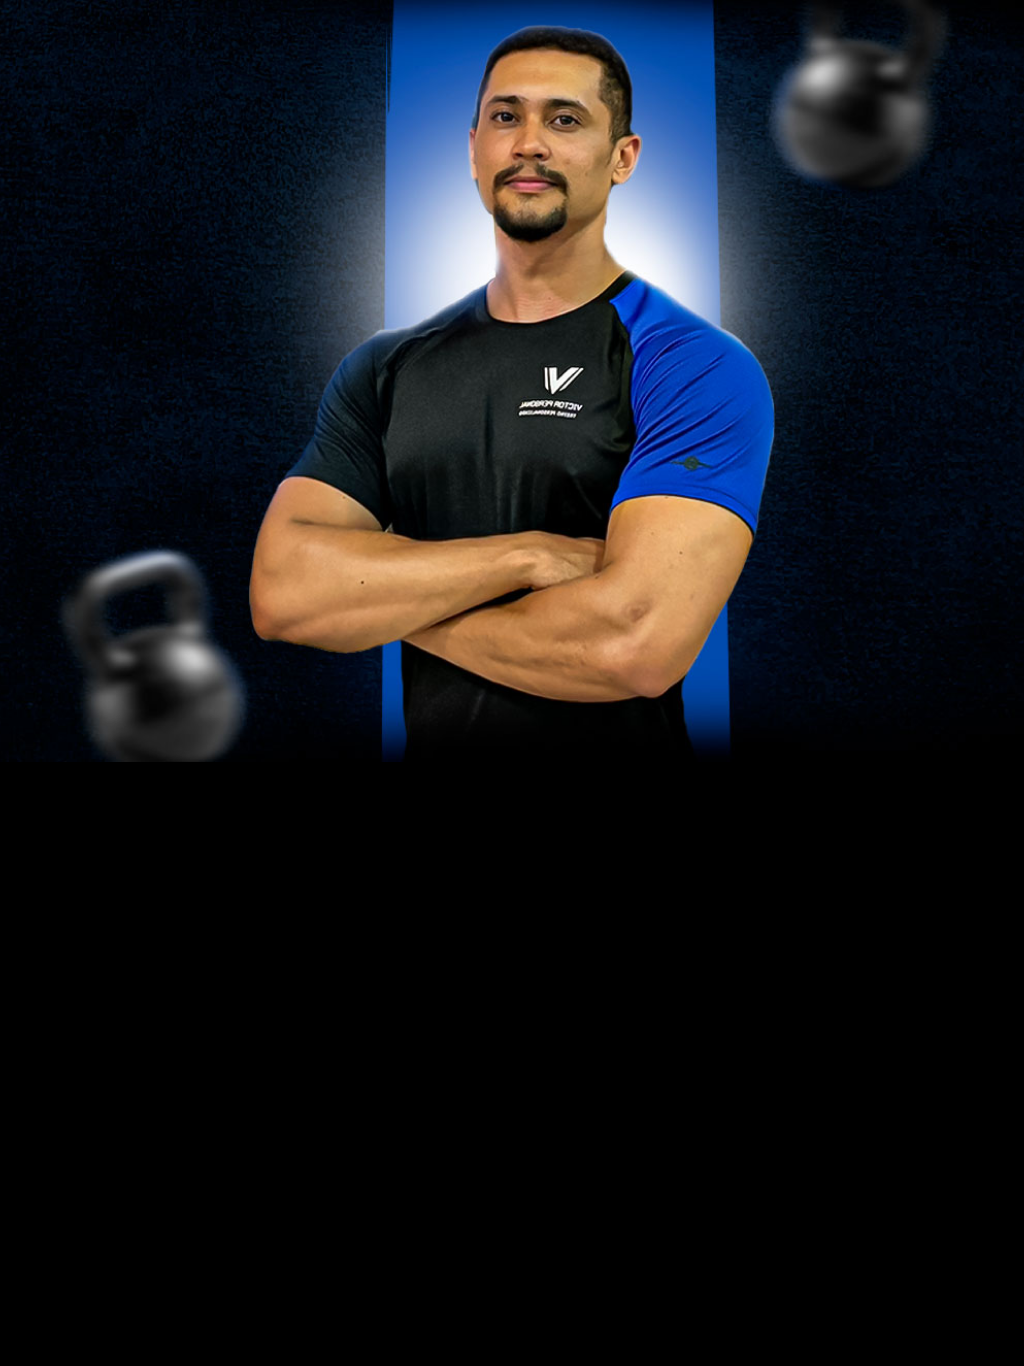
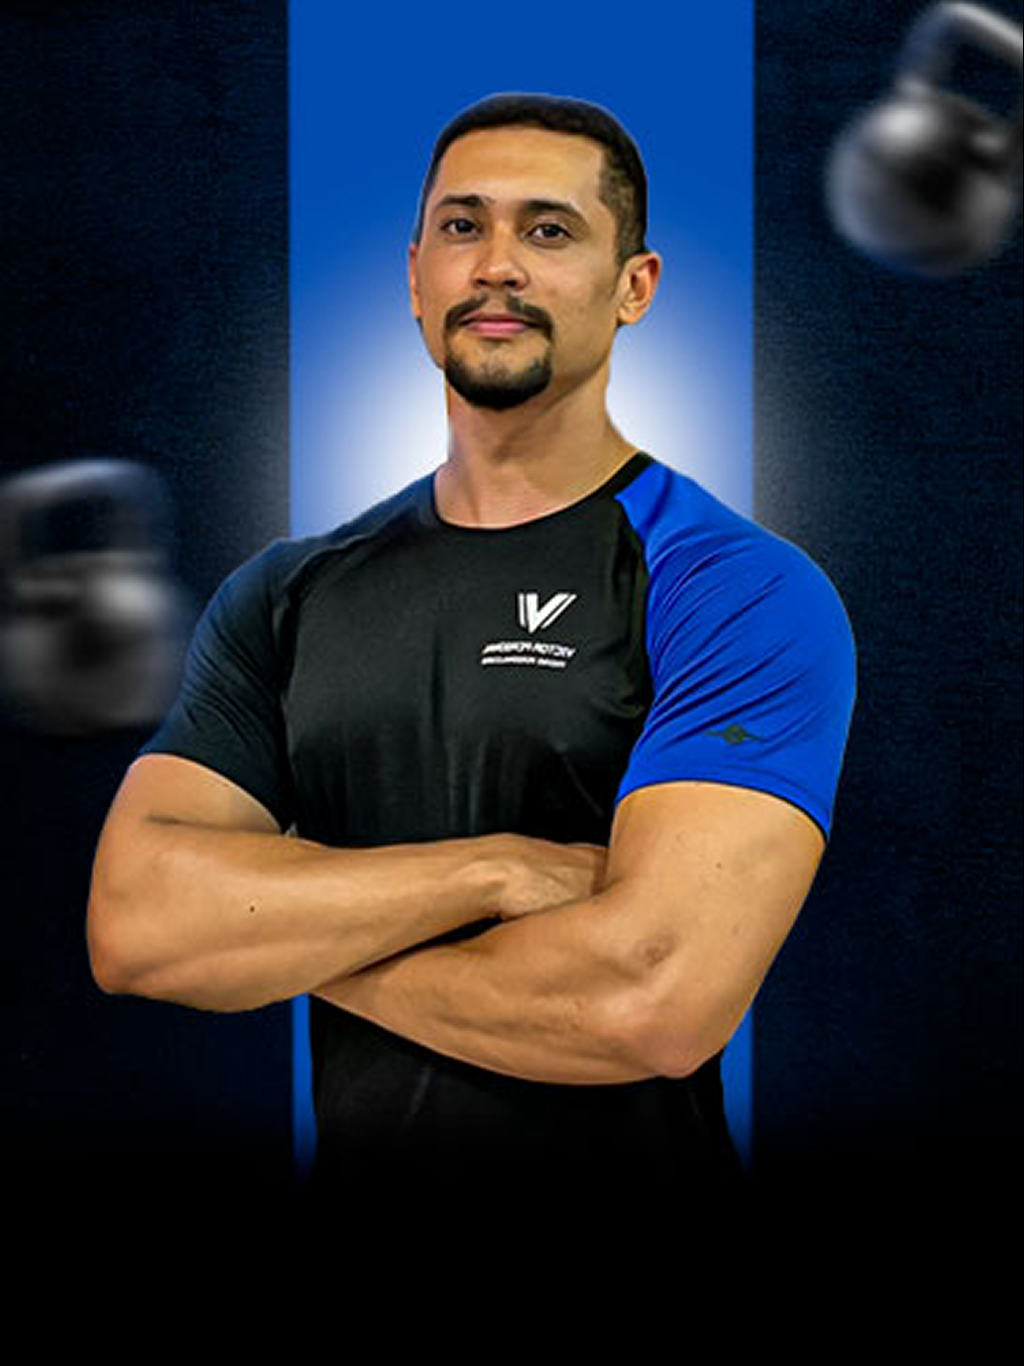
ajuste tablet 1.2

diff --git a/style/hero.css b/style/hero.css
@@ -164,13 +164,16 @@
 /* HERO TABLET */
 @media (min-width: 577px) and (max-width: 1224px) {
     .hero {
-        background-image: url('../assets/img/tablet.png');
+        background-image: url('../assets/img/tablet\ \(2\).png');
         flex-direction: column;
         justify-content: flex-end;
         align-items: center;
         background-position: top center;
         padding: 40px 20px;
         text-align: center;
+        min-height: 120vh;
+
+
     }
 
     .hero-text {
